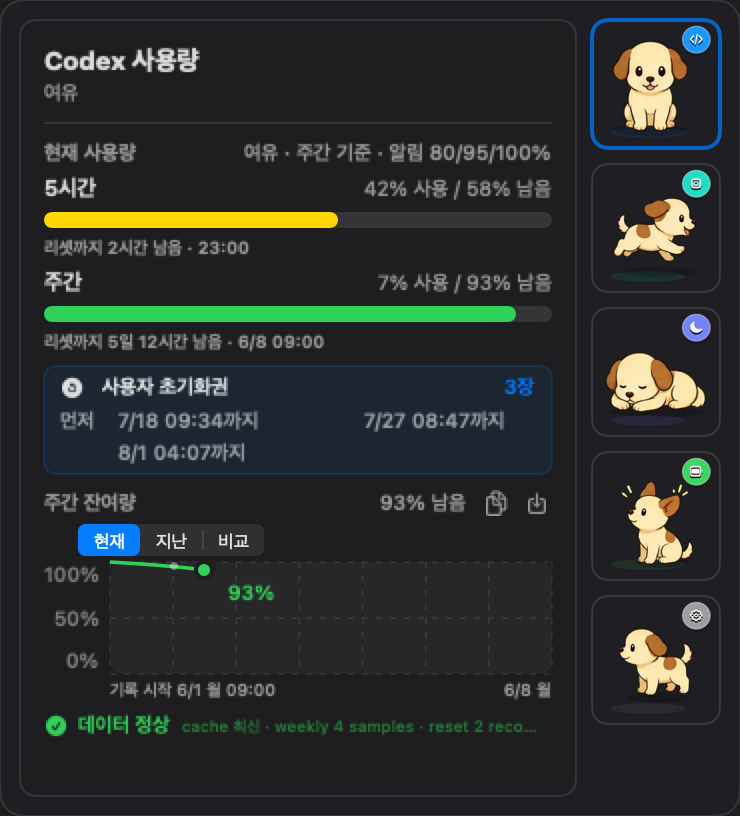
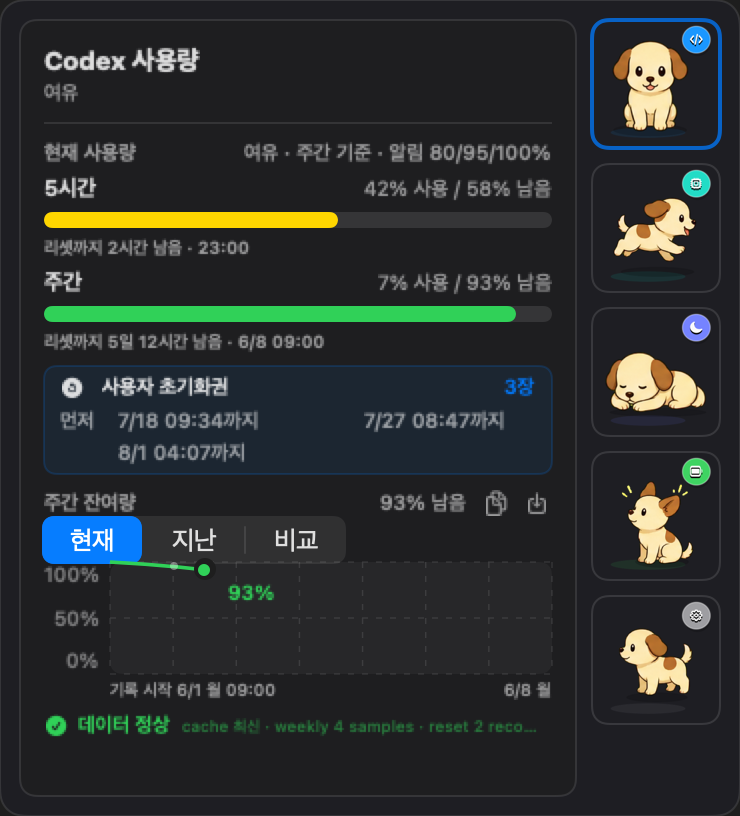
fix: align codex history window picker

Changed region(s): [[0.0311, 0.6127, 0.3419, 0.7047], [0.373, 0.6434, 0.4351, 0.674]]

diff --git a/Sources/MacDog/Popover/WeeklyRemainingHistoryViews.swift b/Sources/MacDog/Popover/WeeklyRemainingHistoryViews.swift
@@ -60,29 +60,30 @@ struct WeeklyRemainingHistoryBlock: View {
                 }
 
                 if comparisonModel.availableModes.count > 1 {
-                    HStack(spacing: 6) {
-                        Picker("", selection: $selectedMode) {
-                            ForEach(comparisonModel.availableModes) { mode in
-                                Text(mode.label).tag(mode)
-                            }
-                        }
-                        .pickerStyle(.segmented)
-                        .controlSize(.mini)
-                        .labelsHidden()
-                        .frame(width: 126)
+                    HStack(spacing: 0) {
+                        WeeklyRemainingHistoryModePicker(
+                            modes: comparisonModel.availableModes,
+                            selectedMode: $selectedMode
+                        )
+                        .frame(
+                            width: WeeklyRemainingHistoryControlLayout.modePickerWidth,
+                            height: WeeklyRemainingHistoryControlLayout.modePickerHeight
+                        )
 
                         if mode != .current, !comparisonModel.pastWindows.isEmpty {
-                            Picker("", selection: selectedPastWindowIDBinding(for: comparisonModel)) {
-                                ForEach(comparisonModel.pastWindows) { window in
-                                    Text(windowLabel(for: window))
-                                        .tag(Optional(window.id))
-                                }
-                            }
-                            .labelsHidden()
-                            .controlSize(.mini)
-                            .frame(width: 94)
+                            Spacer(minLength: WeeklyRemainingHistoryControlLayout.modeWindowPickerSpacing)
+
+                            WeeklyRemainingHistoryWindowPicker(
+                                windows: comparisonModel.pastWindows,
+                                selectedWindowID: selectedPastWindowIDBinding(for: comparisonModel)
+                            )
+                            .frame(
+                                width: WeeklyRemainingHistoryControlLayout.windowPickerWidth,
+                                height: WeeklyRemainingHistoryControlLayout.modePickerHeight
+                            )
                         }
                     }
+                    .frame(maxWidth: .infinity, alignment: .leading)
                 }
 
                 graph(mode: mode, model: comparisonModel, selectedSeries: selectedSeries)
@@ -230,10 +231,6 @@ struct WeeklyRemainingHistoryBlock: View {
         }
     }
 
-    private func windowLabel(for window: CodexUsageResetWindowOverlayWindow) -> String {
-        CodexUsageHistoryTimelineLabel.windowLabel(for: window)
-    }
-
     private func copyVisibleGraph(
         mode: CodexUsageHistoryGraphMode,
         model: CodexUsageHistoryComparisonModel,
@@ -273,6 +270,121 @@ struct WeeklyRemainingHistoryBlock: View {
             size: CodexUsageGraphImageExporter.defaultImageSize,
             scale: 2
         )
+    }
+}
+
+private enum WeeklyRemainingHistoryControlLayout {
+    static let modePickerWidth: CGFloat = 150
+    static let modePickerHeight: CGFloat = 16
+    static let modeWindowPickerSpacing: CGFloat = 24
+    static let windowPickerWidth: CGFloat = 96
+}
+
+private struct WeeklyRemainingHistoryModePicker: NSViewRepresentable {
+    let modes: [CodexUsageHistoryGraphMode]
+    @Binding var selectedMode: CodexUsageHistoryGraphMode
+
+    func makeCoordinator() -> Coordinator {
+        Coordinator(parent: self)
+    }
+
+    func makeNSView(context: Context) -> NSSegmentedControl {
+        let control = NSSegmentedControl(
+            labels: modes.map(\.label),
+            trackingMode: .selectOne,
+            target: context.coordinator,
+            action: #selector(Coordinator.selectionChanged(_:))
+        )
+        control.controlSize = .mini
+        control.segmentStyle = .automatic
+        control.setContentHuggingPriority(.defaultLow, for: .horizontal)
+        control.setContentCompressionResistancePriority(.required, for: .horizontal)
+        control.setAccessibilityLabel("주간 잔여량 그래프 모드")
+        return control
+    }
+
+    func updateNSView(_ control: NSSegmentedControl, context: Context) {
+        context.coordinator.parent = self
+        control.target = context.coordinator
+        control.action = #selector(Coordinator.selectionChanged(_:))
+        control.segmentCount = modes.count
+
+        let segmentWidth = WeeklyRemainingHistoryControlLayout.modePickerWidth / CGFloat(max(modes.count, 1))
+        for (index, mode) in modes.enumerated() {
+            control.setLabel(mode.label, forSegment: index)
+            control.setWidth(segmentWidth, forSegment: index)
+        }
+
+        if let selectedIndex = modes.firstIndex(of: selectedMode) {
+            control.selectedSegment = selectedIndex
+        } else {
+            control.selectedSegment = 0
+        }
+    }
+
+    final class Coordinator: NSObject {
+        var parent: WeeklyRemainingHistoryModePicker
+
+        init(parent: WeeklyRemainingHistoryModePicker) {
+            self.parent = parent
+        }
+
+        @MainActor @objc func selectionChanged(_ sender: NSSegmentedControl) {
+            let index = sender.selectedSegment
+            guard parent.modes.indices.contains(index) else { return }
+            parent.selectedMode = parent.modes[index]
+        }
+    }
+}
+
+private struct WeeklyRemainingHistoryWindowPicker: NSViewRepresentable {
+    let windows: [CodexUsageResetWindowOverlayWindow]
+    @Binding var selectedWindowID: String?
+
+    func makeCoordinator() -> Coordinator {
+        Coordinator(parent: self)
+    }
+
+    func makeNSView(context: Context) -> NSPopUpButton {
+        let control = NSPopUpButton(frame: .zero, pullsDown: false)
+        control.controlSize = .mini
+        control.target = context.coordinator
+        control.action = #selector(Coordinator.selectionChanged(_:))
+        control.setContentHuggingPriority(.defaultLow, for: .horizontal)
+        control.setContentCompressionResistancePriority(.required, for: .horizontal)
+        control.setAccessibilityLabel("지난 주간 window 선택")
+        return control
+    }
+
+    func updateNSView(_ control: NSPopUpButton, context: Context) {
+        context.coordinator.parent = self
+        control.target = context.coordinator
+        control.action = #selector(Coordinator.selectionChanged(_:))
+        control.removeAllItems()
+        control.addItems(withTitles: windows.map { CodexUsageHistoryTimelineLabel.windowLabel(for: $0) })
+
+        for (index, window) in windows.enumerated() {
+            control.item(at: index)?.representedObject = window.id
+        }
+
+        let selectedID = selectedWindowID ?? windows.first?.id
+        if let index = windows.firstIndex(where: { $0.id == selectedID }) {
+            control.selectItem(at: index)
+        }
+    }
+
+    final class Coordinator: NSObject {
+        var parent: WeeklyRemainingHistoryWindowPicker
+
+        init(parent: WeeklyRemainingHistoryWindowPicker) {
+            self.parent = parent
+        }
+
+        @MainActor @objc func selectionChanged(_ sender: NSPopUpButton) {
+            let index = sender.indexOfSelectedItem
+            guard parent.windows.indices.contains(index) else { return }
+            parent.selectedWindowID = parent.windows[index].id
+        }
     }
 }
 

diff --git a/Tests/MacDogTests/PopoverScreenshotRendererTests.swift b/Tests/MacDogTests/PopoverScreenshotRendererTests.swift
@@ -193,7 +193,8 @@ final class PopoverScreenshotRendererTests: XCTestCase {
             descendants.compactMap { $0 as? NSSegmentedControl }.first
         )
 
-        XCTAssertLessThanOrEqual(segmentedControl.frame.width, 132)
+        XCTAssertGreaterThanOrEqual(segmentedControl.frame.width, 144)
+        XCTAssertLessThanOrEqual(segmentedControl.frame.width, 160)
         XCTAssertFalse(
             descendants.contains { $0 is NSPopUpButton },
             "current mode should not show the past-window dropdown"
@@ -207,15 +208,15 @@ final class PopoverScreenshotRendererTests: XCTestCase {
         hostingView.layoutSubtreeIfNeeded()
 
         let descendants = allDescendants(of: hostingView)
-        let segmentedControl = try XCTUnwrap(
-            descendants.compactMap { $0 as? NSSegmentedControl }.first
-        )
+        let segmentedControl = try XCTUnwrap(descendants.compactMap { $0 as? NSSegmentedControl }.first)
+        let windowPicker = try XCTUnwrap(descendants.compactMap { $0 as? NSPopUpButton }.first)
+        let segmentedFrame = segmentedControl.convert(segmentedControl.bounds, to: hostingView)
+        let windowPickerFrame = windowPicker.convert(windowPicker.bounds, to: hostingView)
 
-        XCTAssertLessThanOrEqual(segmentedControl.frame.width, 132)
-        XCTAssertTrue(
-            descendants.contains { $0 is NSPopUpButton },
-            "past mode should show the past-window dropdown"
-        )
+        XCTAssertGreaterThanOrEqual(segmentedFrame.width, 144)
+        XCTAssertLessThanOrEqual(segmentedFrame.width, 160)
+        XCTAssertGreaterThanOrEqual(windowPickerFrame.minX - segmentedFrame.maxX, 24)
+        XCTAssertGreaterThanOrEqual(windowPickerFrame.maxX, hostingView.bounds.maxX - 8)
     }
 
     func testRenderReadmeScreenshotsWhenRequested() throws {
